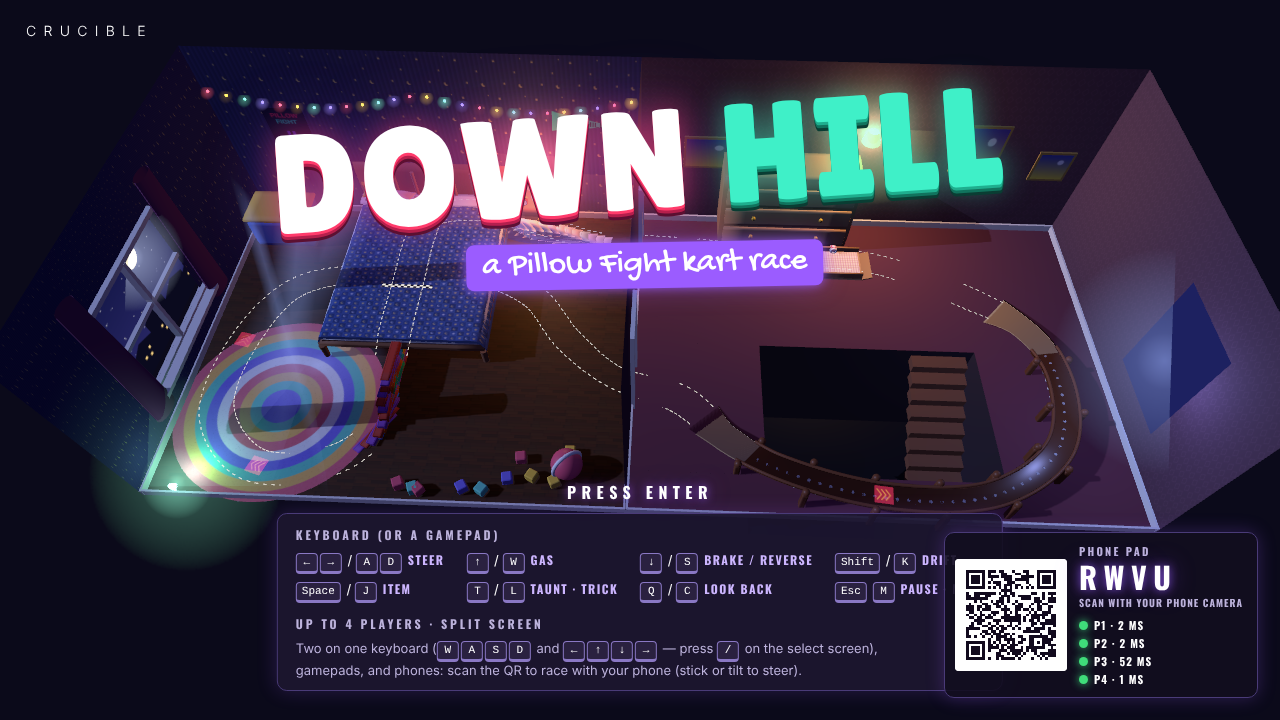
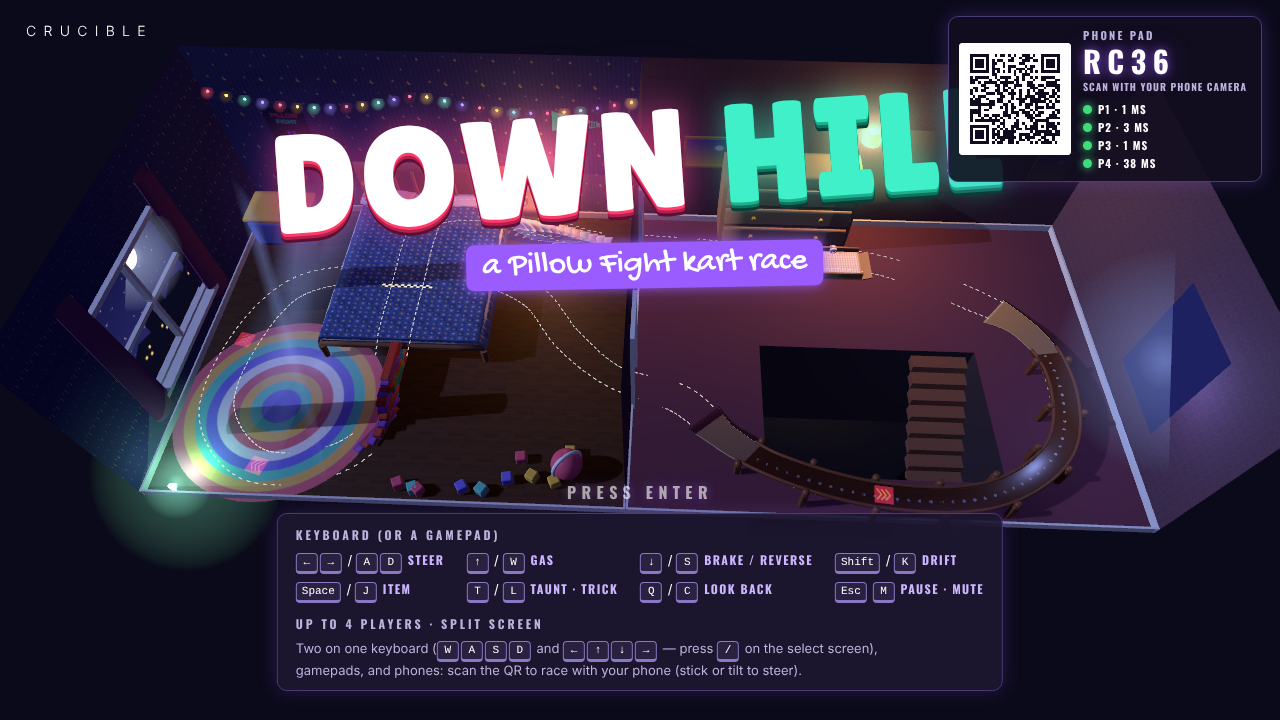
Down Hill stage 2: best-lap ghost, photo-finish slow-mo, check covers all tracks + split screen + cup + ghost/photo, tilt permission on touchend, laundry/park look fixes, README status
Claude-Session: https://claude.ai/code/session_01Sb4eMTuY4bX7SoBVrqoo1A

Changed region(s): [[0.7188, 0.0, 0.9688, 0.275], [0.7188, 0.7333, 0.9688, 0.9778], [0.4375, 0.6722, 0.5625, 0.7028]]

diff --git a/down-hill/_source/src/main.js b/down-hill/_source/src/main.js
@@ -59,6 +59,9 @@ const MAXP = 4;
 /* the track menu: each track, then the cup */
 const CHOICES = [...Object.keys(TRACKS).map((id) => ({ id, name: TRACKS[id].name })), { id: 'cup', name: 'The Pillow Cup' }];
 const lookKey = (id, alt) => `${id}:${alt ? 1 : 0}`;
+/* the ghost's samples ↔ a localStorage string */
+const encode16 = (a) => { const b = new Uint8Array(a.buffer, a.byteOffset, a.byteLength); let s = ''; for (let i = 0; i < b.length; i += 8192) s += String.fromCharCode(...b.subarray(i, i + 8192)); return btoa(s); };
+const decode16 = (s) => { const b = Uint8Array.from(atob(s), (c) => c.charCodeAt(0)); return new Int16Array(b.buffer, 0, b.length >> 1); };
 
 /* split screen: the views' rectangles (fractions of the window) */
 export function layout(n) {
@@ -401,7 +404,8 @@ class App {
     this.hum.stop();
     this._views(0);
     $('roast')?.classList.remove('on');
-    document.body.classList.remove('looking');
+    document.body.classList.remove('looking', 'photo');
+    this.slowmo = null;
   }
 
   /* the HUD panels and cameras, one per human (n = 0 clears them) */
@@ -500,7 +504,8 @@ class App {
       H.cam.look.set(K.x, K.y + 2, K.z);
     }
     this.cam = this.hv[0].cam;
-    this.ghostStart?.();
+    this.ghostStart();
+    this.slowmo = null; this.photoDone = false; document.body.classList.remove('photo');
     this.setScreen('race');
     this.audio.music(null);
     this.audio.setIntense(false);
@@ -1104,6 +1109,108 @@ class App {
     }
     v.fid = S.id; v.skin = skinId(S.id, S.alt);
     return v;
+  }
+
+  /* ── the ghost: your best lap on this track, replayed beside you ──────
+     Single-player races record P1's kart every other tick; a lap faster
+     than the stored best replaces it (localStorage, per track). The next
+     lap, a pale see-through kart drives the best one in step with you. */
+  ghostStart() {
+    const G = (this.ghost = this.ghost || { mesh: this._ghostMesh(), best: {} });
+    G.on = this.hv.length === 1;
+    G.mesh.visible = false;
+    G.rec = null; G.pos = null;
+    if (!G.on) return;
+    const id = this.trackId;
+    if (!(id in G.best)) {
+      G.best[id] = null;
+      try { const j = JSON.parse(globalThis.localStorage?.getItem(`downhill.ghost.${id}`) || 'null'); if (j && j.t > 0 && typeof j.d === 'string') G.best[id] = { t: j.t, d: decode16(j.d) }; } catch { /* no storage: no ghost */ }
+    }
+  }
+  _ghostMesh() {
+    const g = new THREE.Group();
+    const m = new THREE.MeshBasicMaterial({ color: '#bfe8ff', transparent: true, opacity: 0.32, depthWrite: false });
+    const body = new THREE.Mesh(new THREE.BoxGeometry(3.2, 1.4, 4.6), m); body.position.y = 1.1; g.add(body);
+    const head = new THREE.Mesh(new THREE.SphereGeometry(1.1, 14, 10), m); head.position.set(0, 2.9, -0.4); g.add(head);
+    for (const [x, z] of [[-1.6, 1.5], [1.6, 1.5], [-1.6, -1.5], [1.6, -1.5]]) { const w = new THREE.Mesh(new THREE.CylinderGeometry(0.7, 0.7, 0.6, 12), m); w.rotation.z = Math.PI / 2; w.position.set(x, 0.7, z); g.add(w); }
+    const halo = new THREE.Mesh(new THREE.TorusGeometry(0.9, 0.12, 6, 18), new THREE.MeshBasicMaterial({ color: '#e8f8ff', transparent: true, opacity: 0.6, depthWrite: false })); halo.rotation.x = Math.PI / 2; halo.position.set(0, 4.4, -0.4); g.add(halo);
+    g.visible = false; g.renderOrder = 5;
+    this.scene.add(g);
+    return g;
+  }
+  ghostTick() {
+    const G = this.ghost;
+    if (!G?.on || !this.race) return;
+    const R = this.race, K = R.karts[this.me], N = R.T.N;
+    if (R.phase !== 'race' || K.fin && !G.rec) return;
+    const lap = Math.floor(K.kc / N);
+    if (!G.rec || lap !== G.rec.lap) {
+      // a lap just ended: the best one on this track is kept
+      if (G.rec && lap === G.rec.lap + 1 && G.rec.lap >= 0 && !G.rec.fished) {
+        const t = R.tick - G.rec.t0, best = G.best[this.trackId];
+        if (!best || t < best.t) {
+          const d = Int16Array.from(G.rec.buf);
+          G.best[this.trackId] = { t, d };
+          try { globalThis.localStorage?.setItem(`downhill.ghost.${this.trackId}`, JSON.stringify({ t, d: encode16(d) })); } catch { /* full or blocked: fine */ }
+          if (best) this.toast(this.hv[0], 'NEW BEST LAP!', '#bfe8ff');
+        }
+      }
+      G.rec = K.fin ? null : { lap, t0: R.tick, buf: [], fished: false };
+      if (!G.rec) { G.mesh.visible = false; return; }
+    }
+    if (K.fish) G.rec.fished = true;
+    if ((R.tick - G.rec.t0) % 2 === 0 && G.rec.buf.length < 60 * 300 * 2) G.rec.buf.push(Math.round(K.x * 8), Math.round(K.y * 8), Math.round(K.z * 8), Math.round(K.yaw * 1000) % 32000);
+    // play the best lap back in step
+    const best = G.best[this.trackId];
+    if (!best || G.rec.lap < 0) { G.mesh.visible = false; G.pos = null; return; }
+    const f = (R.tick - G.rec.t0) / 2, i = Math.floor(f), n = best.d.length / 4;
+    if (i + 1 >= n) { G.mesh.visible = false; G.pos = null; return; }
+    const a = f - i, d = best.d, q = i * 4, q2 = q + 4;
+    const x = lerp(d[q], d[q2], a) / 8, y = lerp(d[q + 1], d[q2 + 1], a) / 8, z = lerp(d[q + 2], d[q2 + 2], a) / 8, yaw = angLerp(d[q + 3] / 1000, d[q2 + 3] / 1000, a);
+    G.mesh.visible = true;
+    G.mesh.position.set(x, y, z); G.mesh.rotation.y = yaw;
+    G.pos = { x, z };
+    // fade out when you're on top of it
+    const dd = Math.hypot(K.x - x, K.z - z);
+    G.mesh.children.forEach((c) => { c.material.opacity = Math.min(0.32, 0.06 + dd * 0.03); });
+  }
+  ghostEnd() { if (this.ghost) { this.ghost.mesh.visible = false; this.ghost.rec = null; } }
+
+  /* ── the photo finish: a human and a rival about to cross the line
+     together on the last lap → slow motion, a side-on camera at the line,
+     and the flash. Once a race. */
+  photoCheck() {
+    const R = this.race;
+    if (this.slowmo || this.photoDone || R.phase !== 'race' || this.cpus[this.me]) return;
+    const N = R.T.N, end = R.laps * N;
+    for (const H of this.hv) {
+      const K = R.karts[H.i];
+      if (K.fin || end - K.kc > 22 || end - K.kc < 2) continue;
+      const rival = R.karts.find((O) => O !== K && !O.fin && Math.abs(O.kc - K.kc) < 6 && end - O.kc < 24);
+      if (rival) { this.slowmo = { k: 0.22, t: 2.2, i: H.i, j: rival.i }; this.photoDone = true; this.audio.play('dh-tier', { rate: 0.5, gain: 0.8 }); document.body.classList.add('photo'); return; }
+    }
+  }
+  slowmoStep(dt) {
+    if (!this.slowmo) { this.photoCheck?.(); return; }
+    const S = this.slowmo;
+    S.t -= dt;
+    if (S.t <= 0) {
+      this.slowmo = null;
+      document.body.classList.remove('photo');
+      const f = $('flash'); if (f) { f.classList.remove('on'); void f.offsetWidth; f.classList.add('on'); }
+      this.audio.play('dh-bonk', { rate: 2.2, gain: 0.7 });
+    }
+  }
+  /* the side-on camera at the line, for the photo finish */
+  slowmoCam(H) {
+    const R = this.race, T = R.T, k = R.startK, S = this.slowmo;
+    if (!S || (H.i !== S.i && !H.tv)) return;
+    const side = T.w[k] + T.m[k] + 6;
+    const cx = T.x[k] + rightX(T, k) * side, cz = T.z[k] + rightZ(T, k) * side, cy = T.y[k] + 3.2;
+    const K = R.karts[S.i];
+    H.camera.position.set(cx - T.tx[k] * 4, cy, cz - T.tz[k] * 4);
+    H.camera.lookAt(K.x * 0.5 + T.x[k] * 0.5, T.y[k] + 1.6, K.z * 0.5 + T.z[k] * 0.5);
+    H.camera.fov = 46; H.camera.updateProjectionMatrix();
   }
 
   /* tools/shots.mjs: stage one item mid-effect, in front of the camera */

diff --git a/down-hill/_source/src/render/laundry.js b/down-hill/_source/src/render/laundry.js
@@ -16,7 +16,7 @@ import { rbox, mat, mesh, canvasTex, srand } from './geo.js';
 import { rightX, rightZ, podPos } from '../race/track.js';
 
 const TAU = Math.PI * 2;
-export const ROOM = { x0: -300, x1: 285, z0: -195, z1: 165, h: 150 };
+export const ROOM = { x0: -300, x1: 285, z0: -195, z1: 190, h: 150 };
 
 function concreteTex() {
   return canvasTex(512, 512, (g, w, h) => {
@@ -86,7 +86,7 @@ export class LaundryWorld extends World {
   build() {
     this.noDash = new Set(['belt', 'ramp']);
     this.runnerTags = new Set(['floor', 'bulge', 'pods', 'socks', 'suds']);
-    this.runnerColor = '#3a3550';
+    this.runnerColor = '#7a5a8e';
     this.dashLift = () => 0;
     this.scene.background = new THREE.Color('#14121c');
     this._lightsL();
@@ -127,7 +127,7 @@ export class LaundryWorld extends World {
   _lightsL() {
     const S = (this.lightsG = new THREE.Group());
     this.scene.add(S);
-    this.hemi = new THREE.HemisphereLight('#8f9bc0', '#3a3028', 1.15);
+    this.hemi = new THREE.HemisphereLight('#a8b0d0', '#5a4636', 1.5);
     S.add(this.hemi);
     // daylight down the window well: the one shadow-casting light
     const sun = (this.moon = new THREE.DirectionalLight('#dfe8ff', 1.7));
@@ -137,7 +137,7 @@ export class LaundryWorld extends World {
     sun.shadow.bias = -0.0008; sun.shadow.normalBias = 0.6; sun.shadow.autoUpdate = false;
     S.add(sun, sun.target);
     // the bare bulb over the infield
-    this.bulb = new THREE.PointLight('#ffb36a', 5200, 360, 1.5);
+    this.bulb = new THREE.PointLight('#ffb36a', 7000, 420, 1.4);
     this.bulb.position.set(-20, 110, 0);
     S.add(this.bulb);
     // the fluorescent tube over the machines (cool, flickers now and then)
@@ -156,7 +156,7 @@ export class LaundryWorld extends World {
 
   _roomL() {
     const R = ROOM, root = this.root;
-    const floor = new THREE.MeshStandardMaterial({ map: concreteTex(), roughness: 0.82, color: '#a8a39b' });
+    const floor = new THREE.MeshStandardMaterial({ map: concreteTex(), roughness: 0.78, color: '#ece4d6' });
     const f = mesh(new THREE.PlaneGeometry(R.x1 - R.x0, R.z1 - R.z0), floor, (R.x0 + R.x1) / 2, 0, (R.z0 + R.z1) / 2, root);
     f.rotation.x = -Math.PI / 2;
     // a floor drain by the water heater
@@ -206,7 +206,7 @@ export class LaundryWorld extends World {
     if (!ks.length) return;
     // the belt surface: a ribbon over the belt samples, its texture scrolling with the belt
     this.beltTex = beltTex();
-    const beltMat = new THREE.MeshStandardMaterial({ map: this.beltTex, roughness: 0.95 });
+    const beltMat = new THREE.MeshStandardMaterial({ map: this.beltTex, roughness: 0.95, side: THREE.DoubleSide });
     const pos = [], uv = [], idx = [];
     let v = 0;
     ks.forEach((k, i) => {
@@ -253,9 +253,12 @@ export class LaundryWorld extends World {
     const glass = mat('#2a3550', { roughness: 0.1, metalness: 0.3, emissive: '#101828', emissiveIntensity: 0.6 });
     const chrome = mat('#cfd3d8', { roughness: 0.2, metalness: 0.9 });
     const knob = mat('#3a3a40', { roughness: 0.5 });
+    // vintage pastels: cream, mint, avocado, powder blue, butter
+    const shells = [white, mat('#bfe8d4', { roughness: 0.35 }), mat('#c8cf8a', { roughness: 0.35 }), mat('#b8d4ee', { roughness: 0.35 }), mat('#f2e2a4', { roughness: 0.35 })];
+    let nM = 0;
     const machine = (x, z, ry, front = true, kind = 0) => {
       const g = new THREE.Group();
-      const body = mesh(rbox(28, 38, 30, 2.2), white, 0, 19, 0, g); body.userData.cast = true;
+      const body = mesh(rbox(28, 38, 30, 2.2), shells[nM++ % shells.length], 0, 19, 0, g); body.userData.cast = true;
       mesh(rbox(28.2, 6, 4, 1), grey, 0, 35, -13.5, g);
       if (front) {
         const ring = mesh(new THREE.TorusGeometry(8.4, 1.4, 10, 28), chrome, 0, 17, 15.2, g); void ring;
@@ -268,7 +271,7 @@ export class LaundryWorld extends World {
       return g;
     };
     // along the north wall, behind the folding table
-    for (let x = -60; x <= 200; x += 30) machine(x, ROOM.z1 - 18, Math.PI, true, (x / 30) % 2);
+    for (let x = -60; x <= 200; x += 30) machine(x, ROOM.z1 - 17, Math.PI, true, (x / 30) % 2);
     // the island: two rows facing out, with the gap (the shortcut) between them
     if (C) {
       const N2 = new THREE.Vector3(-C.uz, 0, C.ux);       // the corridor's left

diff --git a/down-hill/_source/src/index.html b/down-hill/_source/src/index.html
@@ -182,6 +182,13 @@ body[data-screen=select] #players{top:100px}
 #pause{background:rgba(10,7,20,.72)}
 #pause .box{position:absolute;left:50%;top:50%;transform:translate(-50%,-50%);text-align:center;background:var(--panel);border:1px solid var(--line);border-radius:12px;padding:22px 30px;box-shadow:0 0 26px rgba(155,92,255,.35)}
 #pause .box p{font-family:var(--cond);font-weight:700;letter-spacing:.2em;text-transform:uppercase;color:var(--dim);font-size:13px}
+/* the photo finish: slow motion in sepia, then the flash */
+#flash{position:absolute;inset:0;background:#fff;opacity:0;pointer-events:none;z-index:8}
+#flash.on{animation:flashb .7s ease-out}
+@keyframes flashb{0%{opacity:.95}100%{opacity:0}}
+body.photo #stage{filter:sepia(.6) contrast(1.1) saturate(.85)}
+#photo{position:absolute;left:50%;top:16%;transform:translate(-50%,-50%) rotate(-3deg);display:none;font-family:var(--heavy);font-size:clamp(30px,5vw,64px);color:#fff6e0;text-shadow:0 4px 0 #5a3a1a,0 0 24px rgba(255,220,160,.8);letter-spacing:.04em;white-space:nowrap;pointer-events:none;z-index:7}
+body.photo #photo{display:block;animation:jig .3s steps(2) infinite}
 /* select: the players, the track menu, the cursors on the cards */
 #players{position:absolute;left:50%;top:84px;transform:translateX(-50%);display:flex;gap:8px;align-items:stretch}
 #players .pp{display:flex;flex-direction:column;align-items:center;justify-content:center;min-width:120px;padding:5px 12px;border-radius:8px;background:rgba(18,13,31,.86);border:2px solid var(--pc,var(--line));font-family:var(--cond);font-weight:700;text-transform:uppercase;letter-spacing:.06em;font-size:14px}
@@ -225,6 +232,7 @@ body[data-screen=select] #players{top:100px}
 <div id="loading">Fluffing the pillows…</div>
 <div id="ui">
   <div id="mark">Crucible</div>
+  <div id="flash"></div><div id="photo">PHOTO FINISH</div>
   <div id="pads"></div>
 
   <section class="screen on" id="title">

diff --git a/down-hill/_source/src/render/park.js b/down-hill/_source/src/render/park.js
@@ -217,7 +217,7 @@ export class ParkWorld extends World {
     if (!dk.length) return;
     // the trunk: just outside the deck's inner edge at its middle
     const km = dk[Math.floor(dk.length / 2)], side = T.curv[km] > 0 ? -1 : 1;
-    const off = (T.w[km] + T.m[km] + 16) * side;
+    const off = (T.w[km] + T.m[km] + 24) * side;
     const tx = T.x[km] + rightX(T, km) * off, tz = T.z[km] + rightZ(T, km) * off;
     const bark = new THREE.MeshStandardMaterial({ map: barkTex(), roughness: 0.95 });
     const trunk = mesh(new THREE.CylinderGeometry(11, 16, 150, 18), bark, tx, 75, tz, root); trunk.userData.cast = true;
@@ -226,7 +226,7 @@ export class ParkWorld extends World {
     const r = srand(31);
     for (let i = 0; i < 12; i++) { const a = r() * TAU, d = r() * 60; const s = mesh(new THREE.IcosahedronGeometry(30 + r() * 22, 1), leaf[i % 3], tx + Math.cos(a) * d, 160 + r() * 50, tz + Math.sin(a) * d, root); s.userData.cast = true; }
     // the hut up the trunk, the rope ladder, a little flag
-    const hy = T.y[km] + 14;
+    const hy = T.y[km] + 34;
     const hut = new THREE.Group(); hut.position.set(tx, hy, tz); hut.rotation.y = Math.atan2(T.tx[km], T.tz[km]);
     mesh(new THREE.BoxGeometry(34, 2, 30), mat('#7a5a3c'), 0, 0, 0, hut);
     const wall = new THREE.MeshStandardMaterial({ map: planksTexP(), roughness: 0.8 });
@@ -249,7 +249,7 @@ export class ParkWorld extends World {
     const T = this.T, root = this.root;
     const P = T.def.patches.find((p) => p.kind === 'pool');
     if (!P) return;
-    const R = P.r + 3;
+    const R = P.r + 2;
     this.waterTex = waterTex();
     const water = mesh(new THREE.CircleGeometry(R, 40), new THREE.MeshStandardMaterial({ map: this.waterTex, roughness: 0.05, metalness: 0.1, transparent: true, opacity: 0.85, color: '#bfeeff' }), P.x, 0.35, P.z, root);
     water.rotation.x = -Math.PI / 2; water.userData.noShadow = true; water.userData.keep = true;

diff --git a/down-hill/_source/src/pad/pad.js b/down-hill/_source/src/pad/pad.js
@@ -295,15 +295,22 @@ export function runPad(params) {
     if (!quiet) { sheet(); paintSel(); }
     send();
   }
-  // iPhone: the permission prompt must come from a tap
-  tiltBtn.addEventListener('pointerdown', async (e) => {
+  // iPhone: the permission prompt must come from a tap (a touchend or a click: iOS
+  // doesn't count a pointerdown as one)
+  let asking = false;
+  const ask = async (e) => {
     e.preventDefault(); e.stopPropagation();
+    if (asking) return;
+    asking = true; setTimeout(() => { asking = false; }, 800);
     snd(800);
     let res = 'denied';
     try { res = await DeviceOrientationEvent.requestPermission(); } catch { res = 'denied'; }
     tiltBtn.classList.remove('on');
     if (res === 'granted') { T.granted = true; listen(); status('Tilt on — hold it like a wheel', 2200); } else { status('No tilt permission — using the stick', 2600); setMode('stick'); }
-  });
+  };
+  tiltBtn.addEventListener('touchend', ask, { passive: false });
+  tiltBtn.addEventListener('click', ask);
+  tiltBtn.addEventListener('pointerdown', (e) => { e.stopPropagation(); });
   let listening = false, tiltCheck = 0;
   function listen() {
     T.want = true;

diff --git a/down-hill/_source/src/race/track.js b/down-hill/_source/src/race/track.js
@@ -193,7 +193,7 @@ export const PARK = {
     W(-114, 0, 34, { tag: 'lawn', w: 10, m: 5 }),
   ],
   patches: [
-    { x: 62, z: -30, r: 6.5, kind: 'pool' },
+    { x: 63, z: -29, r: 10, kind: 'pool' },
     { x: -30, z: 70, r: 3.6, kind: 'mulch' },
     { x: 54, z: 34, r: 3.6, kind: 'mulch' },
   ],

diff --git a/down-hill/_source/README.md b/down-hill/_source/README.md
@@ -20,6 +20,8 @@ npm run build                 # → final.html (self-contained; fails on any net
 node tools/check.mjs          # in the real page: menus → race, a whole 3-lap 8-CPU race, frame cost
 node tools/shots.mjs [scene]  # → shots/: select, grid, drift, items, underbed, banister, podium, karts
 node tools/peek.mjs out.png '?hold&webgl&p1=zach' '__dh.step(5)'   # one screenshot
+node tools/pad-test.mjs       # four simulated phones: pairing, menus, latency, tilt, in-sync race, loss, haptics → shots/pad/
+node tools/tour.mjs laundry   # a screenshot at each section of a track → shots/tracks/
 ```
 
 Deep links: `?p1=kevalanche&alt1=1&cpu=hard&track=landing` (straight into a
@@ -81,6 +83,17 @@ race), `p1cpu=LEVEL` (the player's kart drives itself), `seed=N`, `laps=N`,
 - `karts.js`: the seven karts and their ALT re-skins, from primitives.
 - `world.js`: the room, built around the spline. `fx.js`: pooled,
   instanced particles, the item boxes, items in flight, the sock.
+
+## Status — stage 2 of 2 (`docs/stage-2.md`)
+
+| # | Stage 2 item | State |
+|---|---|---|
+| 0 | Stage 1 finished and shipped | done — PR #55 merged before stage 2 began |
+| 1 | Phone controllers (up to 4): PF2's pad ported (QR, wire, padlink, skins, wake lock, reconnect, haptics), Kevin's 14 backgrounds, kart button map (GAS DRIFT ITEM / BRAKE LOOK-BACK TAUNT, pill = USE ITEM, HOW-TO sheet with the items), auto-gas, hit buzz, STICK or TILT steering (calibrated roll, dead zone, 3 sensitivities, smoothing, re-centre, iPhone permission tap, falls back to STICK), steering in the stick-X byte | done — `src/pad/`; `test/pad.test.mjs`; `tools/pad-test.mjs` (4 phones) |
+| 2 | Split screen 2–4 (own camera + HUD each, CPUs fill to 8; keyboard halves, gamepads, phones mix), LOD / pixel ratio per view count | done — `main.js` `_views`, `_render`; `tools/check.mjs` split-2 / split-4 |
+| 3 | Laundry Day (conveyor, rolling pods, dryer-drum shortcut, sock piles), Sprinkler Park (sprinklers, hose jump, kiddie pool, treehouse ramp), The Pillow Cup (3 races, points, overall podium) | done — `race/track.js`, `race/sim.js`, `render/laundry.js`, `render/park.js`; `tools/tour.mjs` |
+| 4 | Polish: best-lap ghost per track, photo-finish slow-mo, last-place roast | done — `main.js` ghost / photo; `ui/lines.js` LAST_LINES |
+| — | Quality bar + ship (`kart-release-2`) | in progress |
 
 ## Stage 2 hooks
 - `input/controls.js` has `extra`: a function returning another input to
